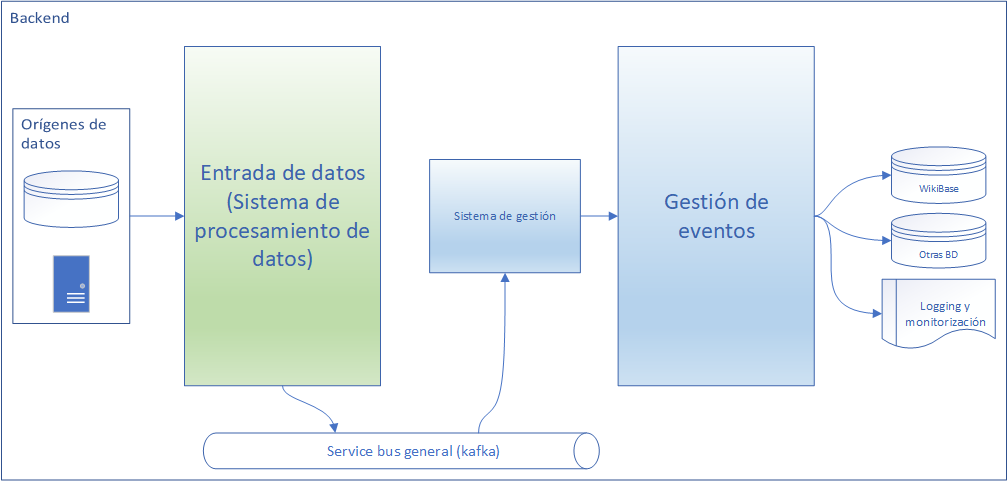
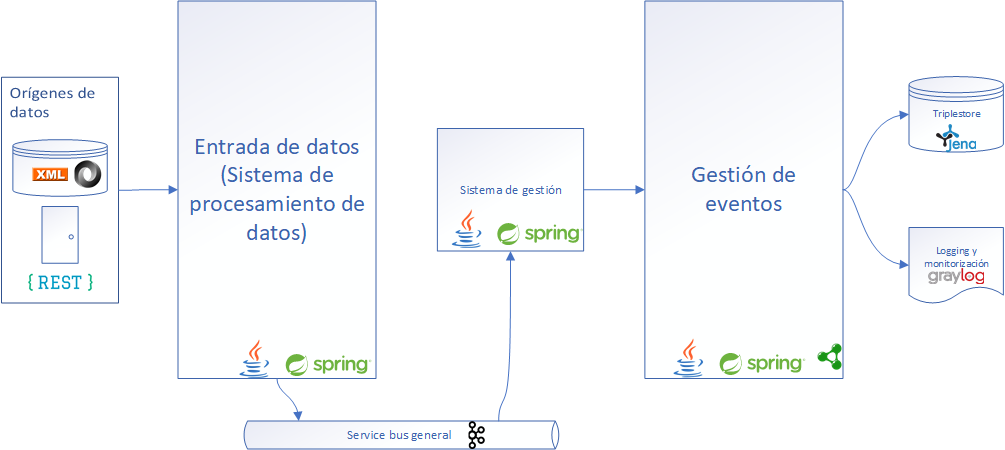
Nueva versión del documento de arquitectura

diff --git a/arquitectura_semantica/documento_arquitectura/ASIO_Izertis_Arquitectura.md b/arquitectura_semantica/documento_arquitectura/ASIO_Izertis_Arquitectura.md
@@ -145,30 +145,31 @@ A alto nivel, la arquitectura se divide en varias partes:
 
 - Backend: Módulo encargado de la ingesta de datos desde un origen, procesando la información e insertándola en los diferentes almacenamientos
 - Gestión: Módulo backoffice encargado de la gestión del sistema
-- Servicio de publicación web: Servicio encargado de la consulta de datos por parte de los usuarios / máquinas
-- API Rest LDP
-- Autorización y autenticación
+- Servicio de publicación web: Servicio web encargado de la consulta de datos por parte de los usuarios
+- API Rest LDP: plataforma conforme a la especificación [Linked Data Platform del W3C](https://www.w3.org/TR/ldp/)
+- Endpoint SPARQL: Endpoint SPARQL indicado para la conexión con el sistema a través de este protocolo
+- Autorización y autenticación: Módulo de autorización encargado de gestionar la autenticación y autorización haciendo la conexión entre la solución y el sistema SIR
 
 También formarán parte de esta visión general:
 
-- Orígenes de datos
-- Almacenamientos de datos RDF
+- Orígenes de datos en diferentes formatos (XML, servicio web, API REST, etc.)
+- Almacenamientos de datos triplestore
 - Sistema de logging y monitorización
 - Bus de servicio general de la aplicación
 - Base de datos de gestión
 
 ## Arquitectura Backend
 
-El módulo de backend es el encargado de la ingesta de datos desde un origen, procesando la información e insertándola en los diferentes almacenamientos.
+El módulo de backend es el encargado de la ingesta de datos desde un origen, procesando la información e insertándola finalmente en el triplestore para que esté accesible posteriormente por el servidor LDP.
 
 ![Arquitectura backend alto nivel](./images/backend.png)
 
 Este módulo estará formado por varias piezas:
 
-- Entrada de datos: módulo encargado de obtener los datos de una entrada de datos (fuentes externas), haciendo las adaptaciones necesarias para que conciliarlos con entides internas e ingesta en bus de servicio general
+- Entrada de datos: módulo encargado de obtener los datos de diferentes fuentes de datos (fuentes externas), haciendo las adaptaciones necesarias para que conciliarlos con entidades internas (POJOs) e ingesta en bus de servicio general
 - Sistema de gestión: servicio encargado de consumir los eventos del bus de servicio y decidir si deben ir al módulo de gestión de eventos
-- Gestión de eventos: módulo encargado de procesar los eventos generados por el módulo de entrada, permitiendo almacenar los datos en los diferntes sistemas de almacenamiento
-- Bus de servicio general (kafka): cola de mensajes utilizada para la comunicación asíncrona entre los módulos
+- Gestión de eventos: módulo encargado de procesar los eventos generados por el módulo de entrada, permitiendo almacenar los datos en el triplestore
+- Service bus general (kafka): cola de mensajes utilizada para la comunicación asíncrona entre los módulos
 
 ### Entrada de datos
 
@@ -176,7 +177,7 @@ El sistema de entrada de datos, tiene como función, procesar los datos de fuent
 
 ![Arquitectura entrada de datos](./images/input.png)
 
-Está formado por una serie de importadores y conversores de datos externos, apoyados por una factoría de URIs que se encargará de asignar URIs a los recursos generados de acuerdo a la política de URIs establecida. Durante el procesamiento de datos, se realizarán las tareas necesarias de conciliación y descubrimiento de entidades en otras fuentes de datos enlazados.
+Estará formado por varios importadores de datos, uno por cada una de las fuentes externas de las que se tome la información. Cada una de estas fuentes dispone de los datos en un formato de entrada, el cual no tiene porque ser el mismo que la estructura de datos con las que vaya a trabajar el sistema, con lo que será preciso realizar una adaptación de los mismos.
 
 **Implementación:** Para su implementación se desarrollarán una serie de microservicios. Potencialmente hay servicios que estarán muy acoplados a cliente (importadores) y otros menos, por lo que será conveniente que cada componente realice las operaciones de la forma más atómica y desacoplada posible.
 
@@ -184,28 +185,41 @@ Está formado por una serie de importadores y conversores de datos externos, apo
 
 #### Importadores
 
-Se trata de N microservicios, uno por cada fuente de datos, que se encargarán de procesar las fuentes externas y adaptar los datos recuperados al formato establecido en la aplicación.
+Se trata de N microservicios, uno por cada fuente de datos, que se encargarán de leer los datos de estas fuentes e ingestarlos en el sistema a través de un topic de Kafka. Su única misión será la de leer los datos de diferentes fuentes y no realizarán transformación alguna sobre ellos.
 
-Por ejemplo, en el caso de una fuentes de datos vía FTP, el importador correspondientes se encargaría de recuperar los ficheros vía FTP, procesar los ficheros y extraer los datos. 
+Por ejemplo, en el caso de una fuentes de datos vía FTP, el importador correspondientes se encargaría de recuperar los ficheros vía FTP, procesar los ficheros y extraer los datos. Otra fuente podría ser un servicio web o un API REST.
 
 **Implementación:** Existen librerías que podrían facilitar la implementación: 
 
-- ShExML : Librería desarrollada por WESO, que permite mapear datos.
-- RML : Lenguaje que permite definir el mapeo de forma escalable y reutilizable con distintas fuentes, orientado a generar documentos RDFs.
+- **Input:** Fuentes de datos externas
+- **Output:** Evento publicado en Service Bus interno (topic de Kafka) del módulo de entrada
 
-- **Input:** Fuente de datos externa
-- **Output:** Evento publicado en Service Bus interno del módulo de entrada
+#### Procesador de datos
 
-#### Procesador
+La tarea del procesamiento de datos se encarga de transformar los datos de entrada en los datos que se precisa para la ontología (POJOs). Dado que el formato de los datos de entrada no coincide con el de los POJOs, incluso existiendo la posibilidad de usar datos de diferentes datos de entrada para componer un único POJO, es necesario realizar este procesamiento en dos pasos.
 
-Obtiene los datos desde el importador y realiza tareas de conciliación y descubrimiento de entidades de otras fuentes de datos enlazados y genera las URIs de los recursos de acuerdo con la política establecida.
+1. Realizar una importación completa de los datos en una base de datos persistiéndolos en una base de datos intermedia
+2. Proceso de conciliación de datos para generar los POJOs
 
-**Implementación:** Se apoyará en las siguientes librerías:
-- Factoría de URIs
-- Librería de descubrimiento.
+##### Procesador
 
-- **Input:** Evento recibido desde el service bus interno del módulo de entrada
-- **Output:** Evento publicado en Service Bus general
+El procesador será el encargado de ir insertando los datos en una base de datos intermedia. Esta base de datos intermedia dispondrá de los datos en el formato de entrada.
+
+La base de datos elegida es una base de datos NoSQL, en concreto MongoDB, la cual permite introducir datos no estructurado con diferentes campos.
+
+**Implementación:** 
+
+* **Input:** Evento recibido desde el service bus interno del módulo de entrada
+* **Output:** Datos introducidos en formato de entrada en la base de datos intermedia del módulo de entrada
+
+##### ETL
+
+Una vez se hayan cargado todos los datos de una de las fuentes, el módulo ETL será el encargado de leer los datos de la base de datos intermedia y transformarlos en la estructura de datos definida por la ontología (POJOs).
+
+**Implementación:** 
+
+- **Input:** Datos procedentes de la base de datos intermedia en formato del módulo de entrada
+- **Output:** Evento publicado en Service Bus general, en formato POJO
 
 #### Service bus interno del módulo de entrada
 
@@ -213,41 +227,59 @@ Se trata de una cola Kafka para garantizar que el procesamiento de los datos de 
 
 ### Gestión de eventos
 
-El módulo de gestión de eventos se encargará de recoger los eventos generados por el sistema de entrada y procesarlos, hasta su guardado en los diferentes sistemas de almacenamiento que se definan.
+El módulo de gestión de eventos se encargará de recoger los eventos generados por el sistema de entrada y procesarlos, hasta su guardado en el triplestore.
 
 ![Arquitectura gestión de eventos](./images/event-management.png)
 
-**Implementación:** Para su implementación se desarrollarán una serie de microservicios. Se debería disponer de unos servicios lo más atómico posible, sobre todo en el caso de los microservicios dedicados a interacturar con los sistemas de almacenamiento, los cuales van a estar muy ligados a las APIs provistas por estos.
+**Implementación:** Para su implementación se desarrollarán una serie de microservicios. Se debería disponer de unos servicios lo más atómico posible, sobre todo en el caso de los microservicios dedicados a interactuar con los sistemas de almacenamiento, los cuales van a estar muy ligados a las APIs provistas por estos.
 
 **Lenguaje:** Para la implementación de los microservicios involucrados en este módulo se recomienda lenguaje de la JVM, por compatibilidad con librerías, principalmente Java o Scala.
 
-#### Sisstema de gestión
+#### Sistema de gestión
 
-El sistema de gestión se encargará de decidir qué eventos enviar a los procesadores de datos y bajo qué condiciones. Se encargará de consumir los eventos del bus de servicio general del sistema e ingestar en el bus de servicio de gestión aquellos eventos que se deban procesar.
+El sistema de gestión será el encargado de recoger los datos en formato POJO del service bus general. Con ellos lo que hará será:
 
-- **Input:** Evento recibido desde el service bus general del sistema
-- **Output:** Evento publicado en Service Bus de gestión
+- Utilizar la librería de descubrimiento para validar si se trata de un nuevo recurso, uno ya existente que hay que actualizar o bien es necesario realizar un borrado
+- Generación de RDF apoyándose en la factoría de URIs
+- Ingesta de RDF en service bus del módulo de gestión, junto con la operación a realizar, lo que permitirá disponer de un log de todas las operaciones realizadas en el sistema, pudiendo ser útil en caso de necesitar restaurar la información.
 
-#### Procesadores de eventos
+**Implementación:**
 
-Cada uno de los procesadores de eventos se encargarán de consumir los mensajes disponibles en el bus de servicio de gestión con el fin de ser almancenados en un almacenamiento concreto. La idea es que exista un procesador de eventos por cada uno de los diferentes almacenamientos / Triple stores (WikiBase, Apache Jena, etc.), de esta forma es muy sencillo activar o desactivar los sistemas de almacenamiento en un momento dado, simplemente con levantar o parar el microservicio procesador de eventos.
+* **ShExML:** Librería desarrollada por WESO, que permite mapear datos.
 
-Cuando se procese un evento, este se enviará al storage adapter correspondiente para su almacenamiento en el sistema adecuado.
+- **Input:** Evento recibido desde el service bus general del sistema, con datos en formato POJO
+- **Output:** Evento publicado en Service Bus de gestión, con el RDF además de la operación a realizar
+
+#### Procesador de eventos
+
+El procesador de eventos será el encargado de recoger los datos desde el service bus del módulo de gestión y enviarlos al almacenamiento por medio de un adaptador.
+
+Cuando se procese un evento, este se enviará al storage adapter su almacenamiento en el sistema adecuado.
+
+**Implementación:**
 
 - **Input:** Evento recibido desde el service bus de gestión
 - **Output:** Invocación a storage adapter para almacenamiento de mensaje
 
 #### Storage adapters
 
-Por cada uno de los sistemas de almacenamiento existirá un storage adapter que se encargará de adaptar los datos de la aplicación para poder ser insertados en un sistema de almacenamiento. Como sistema de almacenamiento se entenderá por ejemplo un Triple Store como WikiBase o Apache Jena, no obstante este sistema también permitiría guardar datos en otro tipo de sistemas como una base de datos (relacional, NoSQL, ...), fichero (plano, csv, ...) o cualquier otro mecanismo que fuese necesario.
+En lugar de añadir la lógica correspondiente a un sistema de almacenamiento, se utilizará un adaptador el cual dispondrá de toda la lógica necesaria para interactuar con el triplestore. Esto permite que en caso que se quiera cambiar de sistema de almacenamiento, solo con cambiar este adaptador es suficiente para poder trabajar con este nueva capa de persistencia.
+
+Dentro del transcurso del proyecto se desarrollará un adaptador para la ingesta de datos en el sistema [Trellis](https://www.trellisldp.org/).
+
+**Implementación:**
 
 - **Input:** Mensaje recibido mediante invocación desde el procesador de eventos a través de un API Rest
-- **Output:** Información persistida en el sistema de almacenamiento
+- **Output:** Información enviada a Trellis a través de su API LDP
 
-Además del almacenamiento de información, también serviría de interprete para consulta de la misma, recuperándola del sistema de almacenamiento y devolviéndola al sistema. Esto será util para las APIs de consulta. En este caso la entrada y salida sería la siguiente:
+#### Trellis
 
-- **Input:** Solicitud de consulta de información mediante API Rest
-- **Output:** Datos correspondiente a la consulta realizada
+Trellis es un servidor LDP Modular que soporta el escalado horizontal y redundancia, el cual soporta diferentes sistemas de almacenamiento, siendo por defecto triplestore y base de datos. Al disponer de una arquitectura modular y también al proveer todas sus librerías subidas a repositorios Maven, permite de forma sencilla utilizarlas para componer un empaquetado "custom". Esto facilitaría también el intercambio de ciertas piezas como puede ser la capa de persistencia para permitir así cumplir con el requisito de que la plataforma sea capaz de soportar el intercambio de triplestore.
+
+**Implementación:**
+
+- **Input:** Datos procedentes del adaptador de Trellis
+- **Output:** Datos persistidos en un triplestore
 
 #### Logging y monitorización
 
@@ -259,9 +291,17 @@ Más información: [https://www.graylog.org/](https://www.graylog.org/)
 
 ### APIs / Web (Frontend)
 
-El sistema Frontend se encargará de interatuar con los usuarios que intenten acceder al sistema, ya sean personas o máquinas. Se permitirá tanto la consulta de datos como la introducción de nuevos datos en el sistema mediante esta vía.
+El sistema Frontend se encargará de interactuar con los usuarios que intenten acceder al sistema, ya sean personas o máquinas. Se permitirá tanto la consulta de datos como la introducción de nuevos datos en el sistema mediante esta vía.
 
-![Arquitectura APIs / Web](./images/apis-web.png)
+![Arquitectura APIs / Web](./images/api-web.png)
+
+El sistema dispondrá de los siguientes elementos:
+
+- **API REST LDP:** API REST que cumpla con la recomendación [LDP (Linked Data Platform)](https://www.w3.org/TR/ldp/) en la que cada se definen los conceptos de recursos y contenedores. Los recursos pueden ser recursos con información RDF o recursos no-RDF. Para cada entidad, se define el conjunto de verbos http disponibles: GET, PUT, POST, DELETE, HEAD, PATCH y OPTIONS
+- **Servicio e publicación web:** ofrecerá una capa Web de acceso a los diferentes recursos de investigación. El servicio ofrecerá facilidades para la visualización y búsqueda de datos enlazados, así como negociación de contenido para que la información sea útil tanto para humanos como máquinas.
+- **Endpoint SPARQL:** endpoint para la realización de consultas SPARQL
+
+Además, todos estos elementos estarán acompañados por una capa de negociación de contenido que permita obtener los datos ya sean del API Rest LDP o bien de alguno de los demás servicios en función de reglas. 
 
 Para el acceso a este módulo existirá una capa de seguridad (autenticación y autorización) que garantizará que cada uno de los usuarios puede ejecutar las acciones que permite su rol.
 
@@ -271,12 +311,12 @@ Para el acceso a este módulo existirá una capa de seguridad (autenticación y 
 
 #### Servicio de publicación web
 
-El servicio de publicación web se encargará de ofrecer el interfaz externo del backend SGI. Ofrecerá mecanismos para realizar consultas de la información y mostrar el detalle de los elementos, así como ofrecer la posibilidad de insertar información en el sistema de forma manual.
+El servicio de publicación web es el encargado de mostrar un frontal HTML para la visualización de los datos. También dispondrá de un editor de consultas SPARQL.
 
 Está formado por dos partes:
 
 - Frontal: Se trata de una aplicación desarrollada mediante la utilización de un framework SPA.
-- API: El frontal necesita un API para poder iteractuar con el sistema, será necesario definir un API Rest que permita esta comunicación.
+- API: El frontal necesita un API para poder interactuar con el sistema, será necesario definir un API Rest que permita esta comunicación.
 
 #### API Rest LDP
 
@@ -284,14 +324,19 @@ Se propone la creación de un API Rest para la gestión de los diferentes recurs
 
 Smart-API es una especificación basada en OpenAPI que permite añadir metadatos utilizando JSON-LD. De esta forma, en lugar de devolver valores JSON simples, se devuelven valores JSON-LD que encajan con el modelo de datos enlazados. También dispone de un registro de APIs que facilitan el descubrimiento de servicios. 
 
-En principio se propone que el API REST cumpla con la recomendación LDP (Linked Data Platform)  en la que cada se definen los conceptos de recursos y contenedores. Los recursos pueden ser recursos con información RDF o recursos no-RDF. Para cada entidad, se define el conjunto de verbos http disponibles: GET, PUT, POST, DELETE, HEAD, PATCH y OPTIONS.
+Se propone que el API REST cumpla con la recomendación LDP (Linked Data Platform)  en la que cada se definen los conceptos de recursos y contenedores. Los recursos pueden ser recursos con información RDF o recursos no-RDF. Para cada entidad, se define el conjunto de verbos http disponibles: GET, PUT, POST, DELETE, HEAD, PATCH y OPTIONS.
 
-### Gestor de comunicación
+Para ello se utilizará el propio API REST LDP proporcionado por Trellis.
 
-El gestor de comunicación será el encargado de manejar las peticiones que se reciban desde las APIs de comunicación. En caso de tratarse de peticiones de consulta, se accederá directamente a los Storage Adapters, mientras que en caso de escritura de nuevos datos, estos pasarán por el sistema de gestión para que los ingeste en el service bus de gestión.
+#### Endpoint SPARQL
 
-- **Input:** Mensaje recibido mediante invocación desde las APIs
-- **Output:** Información devuelta desde los storage adapters. En el caso de inserción de información, el output será mediante invocación al sistema de gestión.
+El endpoint SPARQL será el encargado de ofrecer a los usuarios de la plataforma un endpoint SPARQL. Realmente lo que hará será delegar en el endpoint proporcionado por el triplestore para realizar las consultas, haciendo de esta forma transparente para los usuarios el endpoint utilizado internamente. Para ello hará uso de un adaptador para facilitar realizar el cambio de triplestore en caso que sea preciso.
+
+**Implementación:**
+
+- **Input:** Consulta SPARQL procedente desde los usuarios (personas o máquinas)
+
+- **Output:** Datos procedentes de la ejecución de la consulta
 
 ## Arquitectura aplicación de gestión
 
@@ -324,7 +369,7 @@ Este sistema se apoyará en una base de datos de tipo NoSQL, como lo es MongoDB.
 
 ## Autenticación
 
-La aplicacion dispondrá de un sistema de autenticación que permita identificar a los usuarios que van a trabajar con la misma. Esl sistema de autenticación dará acceso a los usuarios mediante sus credenciales. Para este cometido se utilizará se propone la utilización de un Single Sign On, que permita abstraer a cada uno de los servicios de este cometido, centralizando el proceso de autenticación en un único lugar.
+La aplicación dispondrá de un sistema de autenticación que permita identificar a los usuarios que van a trabajar con la misma. El sistema de autenticación dará acceso a los usuarios mediante sus credenciales. Para este cometido se utilizará se propone la utilización de un Single Sign On, que permita abstraer a cada uno de los servicios de este cometido, centralizando el proceso de autenticación en un único lugar.
 
 Dado que Backend SGI es previsto que sea utilizado por usuarios de diferentes organizaciones, lo más adecuado es que se utilice un sistema de autenticación federado que permita utilizar la plataforma de autenticación de la organización a la que pertenezca cada uno de ellos. 
 
@@ -333,7 +378,7 @@ Dado que Backend SGI es previsto que sea utilizado por usuarios de diferentes or
 En un sistema federado existen los siguientes roles:
 
 - **Proveedor de identidad:** encargado de realizar la autenticación del usuario y emitir las credenciales del mismo, pudiendo incluir información adicional sobre los atributos del usuario
-- **Proveedor de servicio:** responsale de validar las credenciales. Es posible que el usuario se haya autenticado pero no sea válido para el servicio en cuestión (por roles por ejemplo), en este caso se denegaría la entrada.
+- **Proveedor de servicio:** responsable de validar las credenciales. Es posible que el usuario se haya autenticado pero no sea válido para el servicio en cuestión (por roles por ejemplo), en este caso se denegaría la entrada.
 
 Para este cometido se recomienda federar la aplicación en el sistema SIR.
 
@@ -544,7 +589,7 @@ Para poder conseguir esta integración es necesario disponer de una pieza que ha
 
 ![Bridge de autorización](./images/authorization-bridge.png)
 
-En este caso existirá un servidor de autenticacion que realice este rol. De puertas a fuera se trabajará con SAML, haciendo la integración son SIR, mientras que de puertas a dentro se dispondrá de un token JWT proporcionado por el servidor de autenticación.
+En este caso existirá un servidor de autenticacion que realice este rol. De puertas a fuera se trabajará con SAML, haciendo la integración son SIR, mientras que de puertas a dentro se dispondrá de un token JWT proporcionado por el servidor de autenticación. Para facilitar esta integración, se estudiará la utilización de herramientas como [Keycloak](https://www.keycloak.org/).
 
 # Vista de Despliegue
 
@@ -609,8 +654,6 @@ La presente propuesta se basa en los siguientes patrones arquitectónicos:
 
 # Decisiones de Diseño
 
-## <*Procesamiento asíncrono*>
-
 ## Procesamiento de streams
 
 Con el fin de aumentar la **escalabilidad y alta disponibilidad del sistema**, se propone la utilización de un sistema de procesamiento de flujos (streams) de eventos. Este tipo de sistemas están siendo utilizados en proyectos que requieren el procesamiento de grandes cantidades de datos y consisten en utilizar un mecanismo de publicación/suscripción a un log distribuido de sólo lectura. La ventaja es que las operaciones de escritura en el log son más eficientes que las actualizaciones en una base de datos. 
@@ -659,9 +702,7 @@ Además, muchas de las librerías de web semántica como Apache Jena ó RDF4J es
 
 A pesar de ello, tampoco se descarta la creación de ejemplos o prototipos en otros entornos como NodeJs que pueden servir como prueba de concepto de interoperabilidad, o incluso como desarrollos rápidos de ciertas funcionalidades que sean demandadas por el cliente.
 
-<*Definir stack tecnológico*>
-
-### <*Spring*>
+### *Spring*
 
 Como framework de desarrollo se utilizará Spring el cual es el framework "Open Source" más utilizado para la plataforma J2EE. 
 
